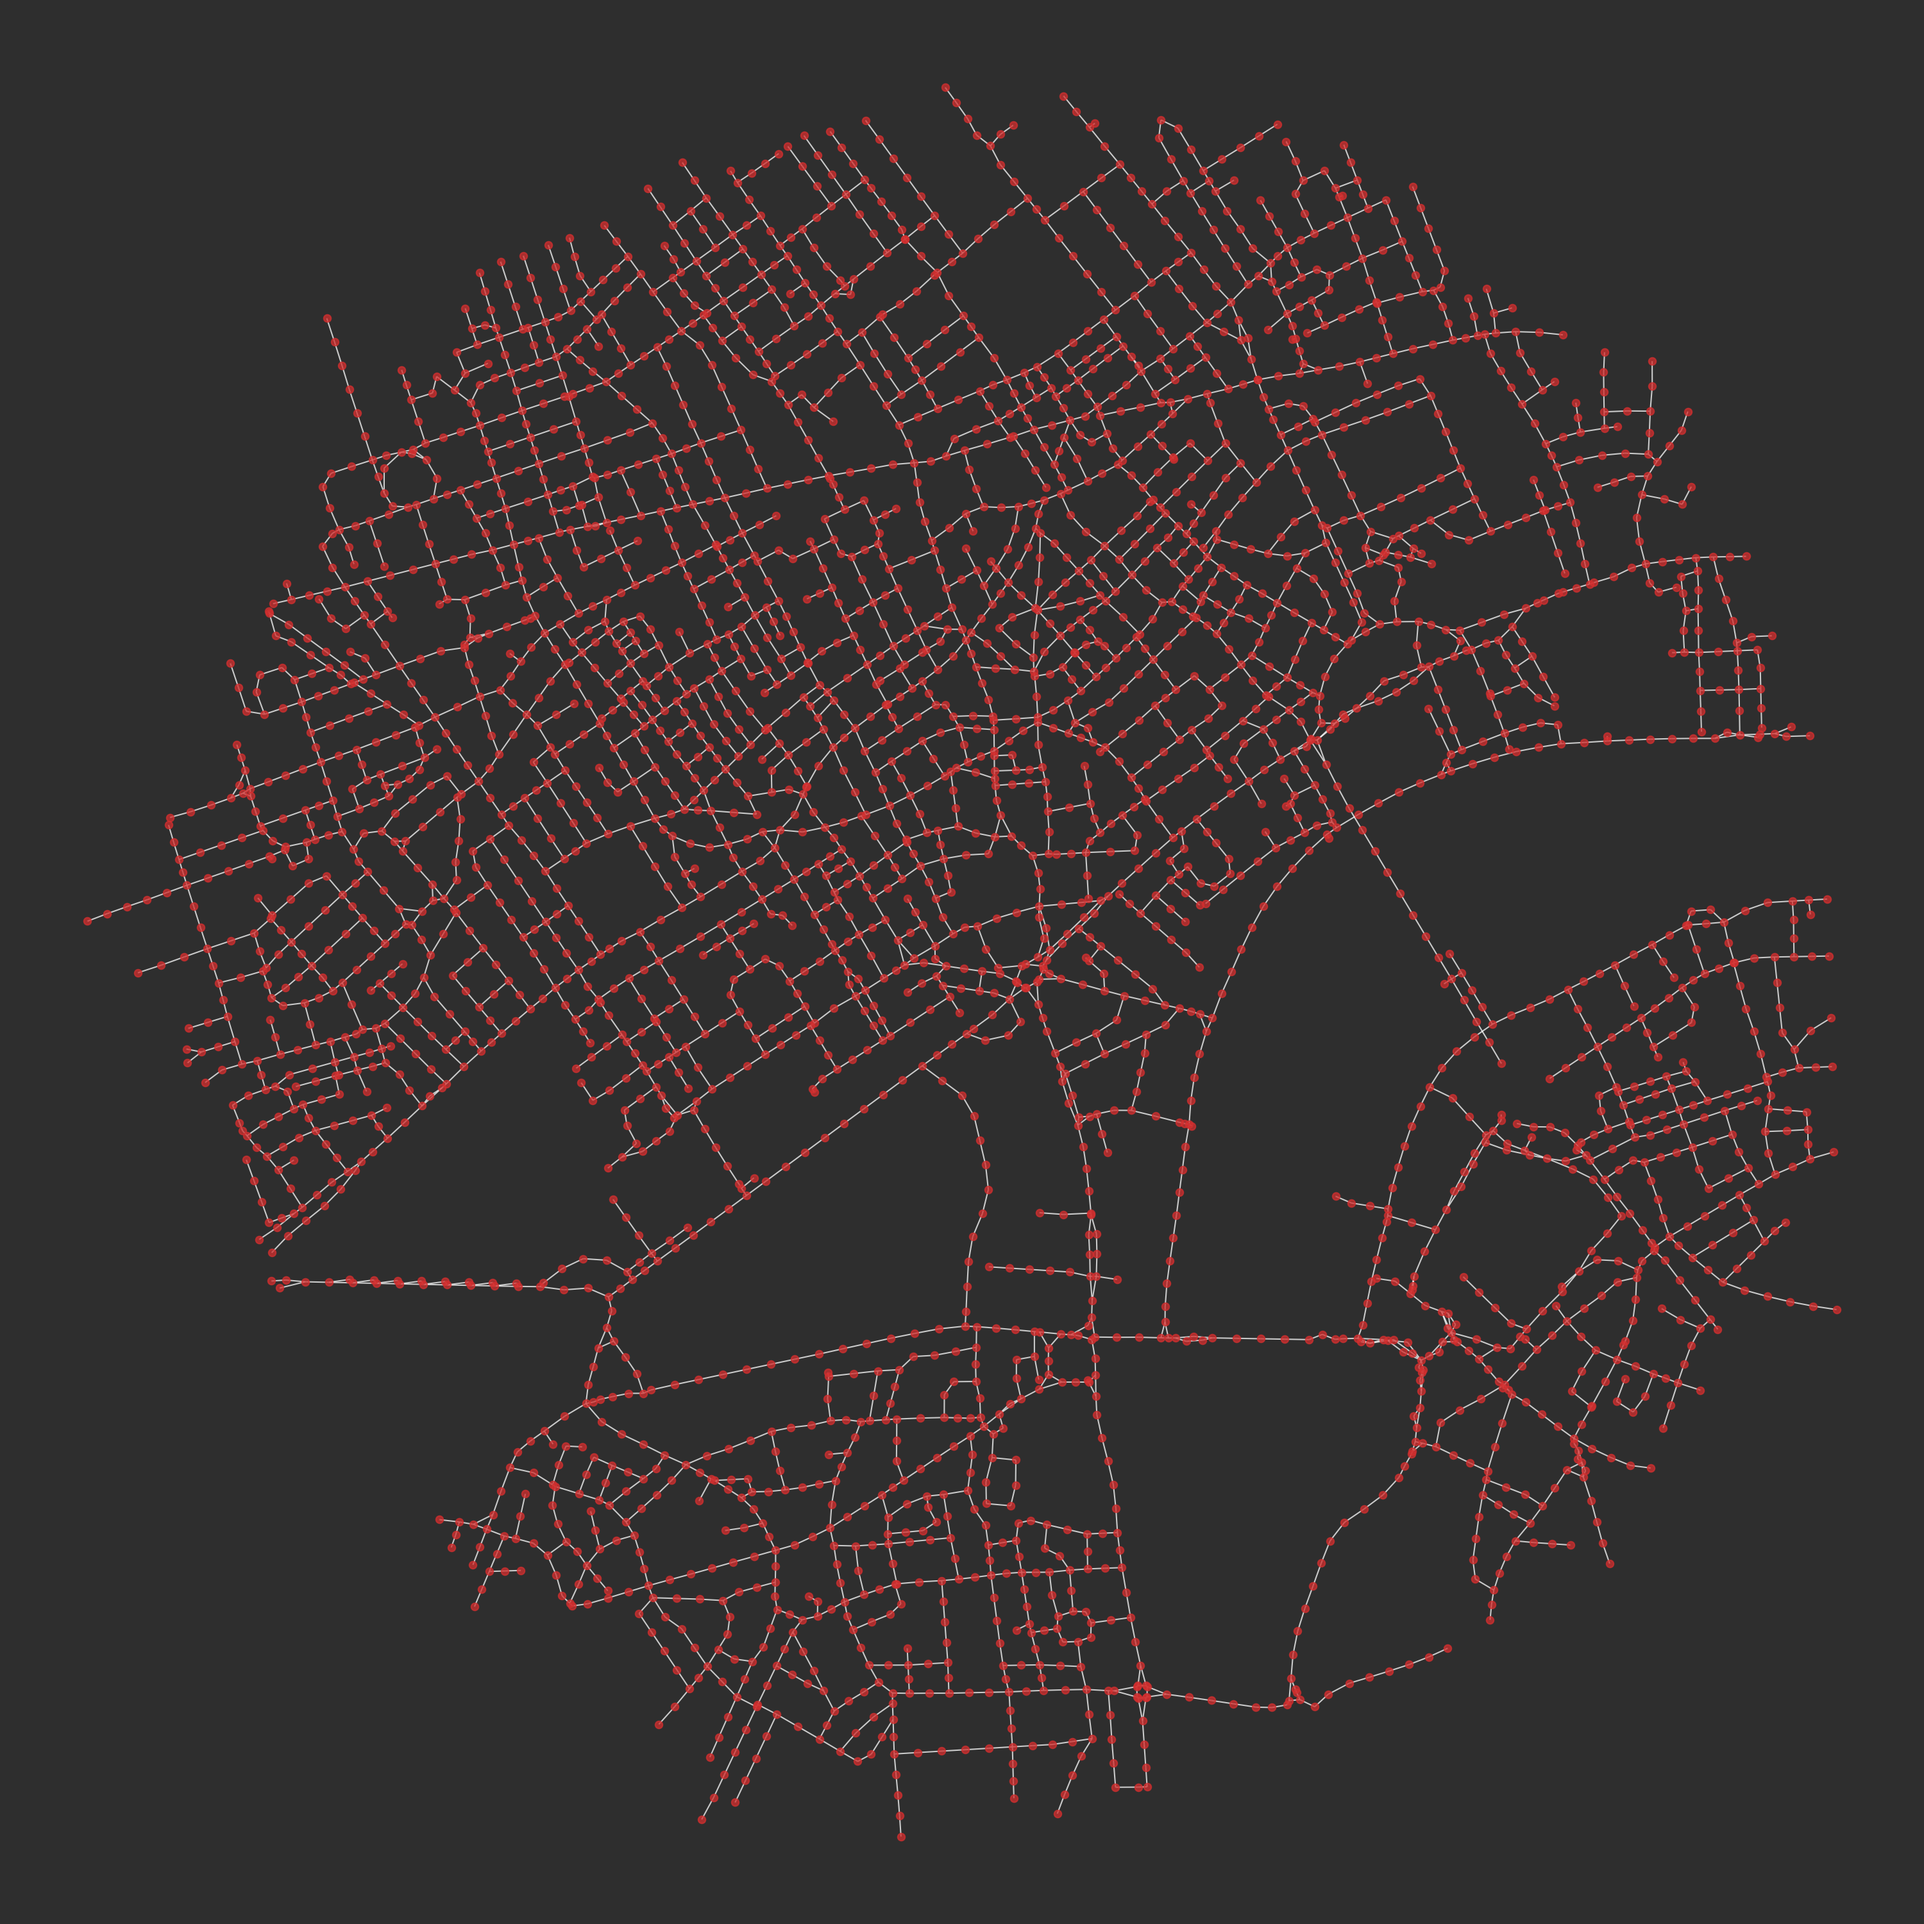
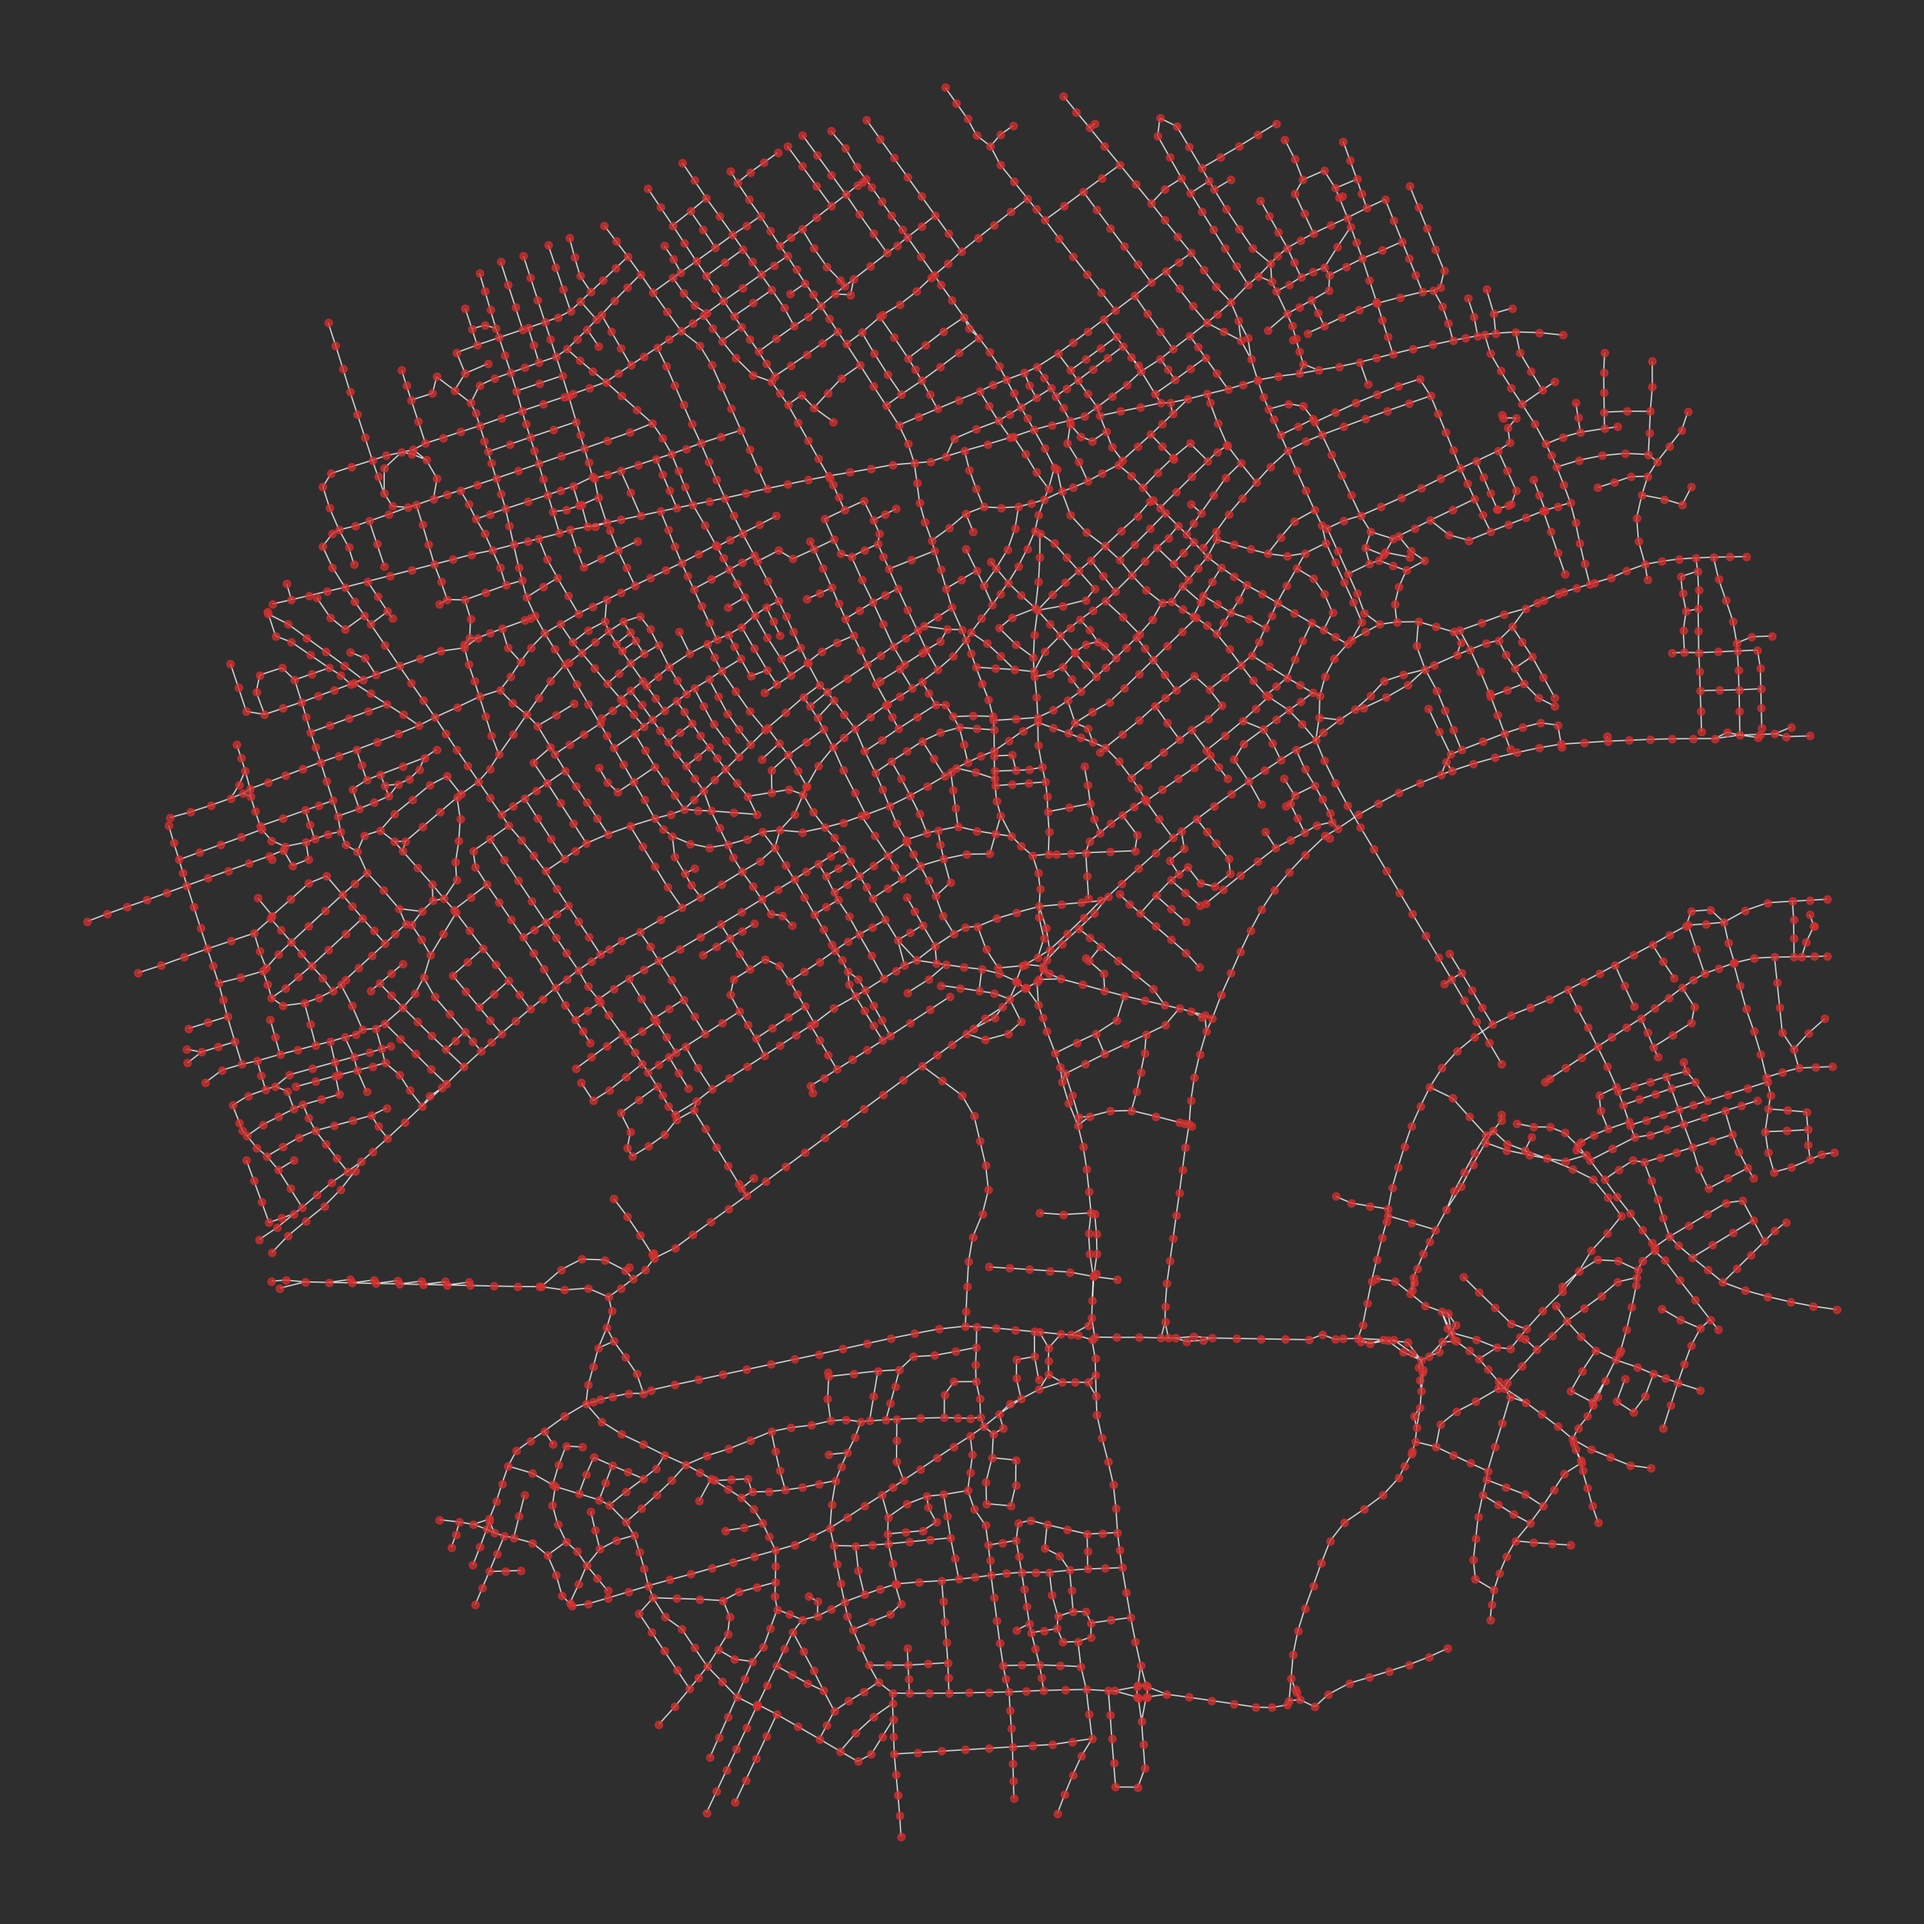
adds additional step to graph cleaning notebook

diff --git a/docs/images/plots/guides/cleaning/plot.py b/docs/images/plots/guides/cleaning/plot.py
@@ -58,3 +58,9 @@ G_messy = graphs.nX_consolidate_parallel(G_messy)
 plt.cla()
 plt.clf()
 plot.plot_nX(G_messy, 'graph_consolidated.png', dpi=150, figsize=(20, 20))
+
+G_messy = graphs.nX_remove_filler_nodes(G_messy)
+G_messy = graphs.nX_consolidate_spatial(G_messy, buffer_dist=10)
+G_messy = graphs.nX_remove_filler_nodes(G_messy)
+G_messy = graphs.nX_decompose(G_messy, 50)
+plot.plot_nX(G_messy, 'graph_reconsolidated.png', dpi=150, figsize=(20, 20))

diff --git a/docs/guide/cleaning.md b/docs/guide/cleaning.md
@@ -136,4 +136,17 @@ plot.plot_nX(G, figsize=(20, 20), dpi=150)
 
 <ImageModal :path="require('../images/plots/guides/cleaning/graph_consolidated.png')" alt='OSM graph after decomposition and consolidation' caption='The OSM graph after decomposition and consolidation. © OpenStreetMap contributors.'></ImageModal>
 
+You can mix-and-match various steps to further refine the graph, for example, let's remove the filler nodes again; then use a smaller distance spatial buffer to collapse oddities around intersections; remove newly residual nodes of degree=2; then re-decompose.
+
+```python
+# feel free to experiment!
+G = graphs.nX_remove_filler_nodes(G)
+G = graphs.nX_consolidate_spatial(G, buffer_dist=10)
+G = graphs.nX_remove_filler_nodes(G)
+G = graphs.nX_decompose(G, 50)
+plot.plot_nX(G, figsize=(20, 20), dpi=150)
+```
+
+<ImageModal :path="require('../images/plots/guides/cleaning/graph_reconsolidated.png')" alt='OSM graph after additional steps' caption='The OSM graph after additional processing. © OpenStreetMap contributors.'></ImageModal>
+
 There may still be locations that need some manual cleaning, though this is now much easier to accomplish. The graph is now ready for analysis with the `cityseer` package's methods.
